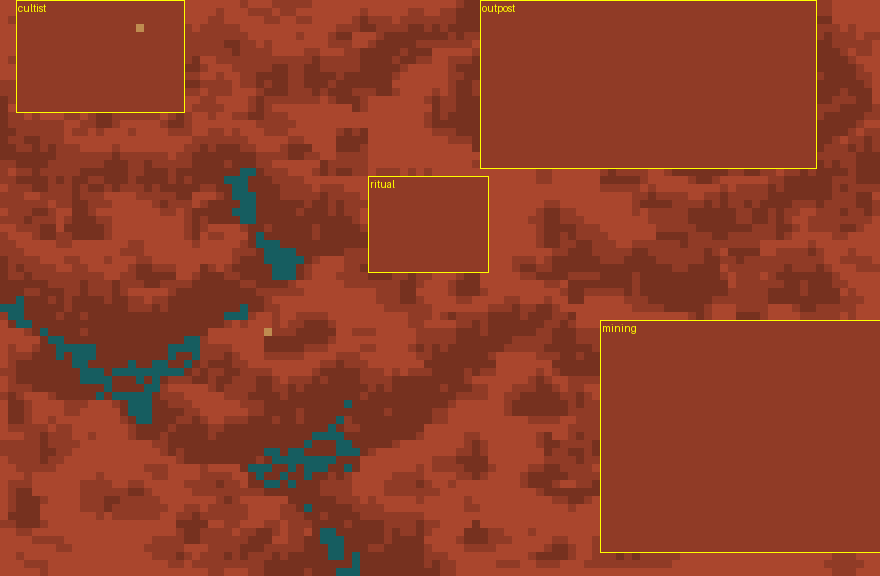
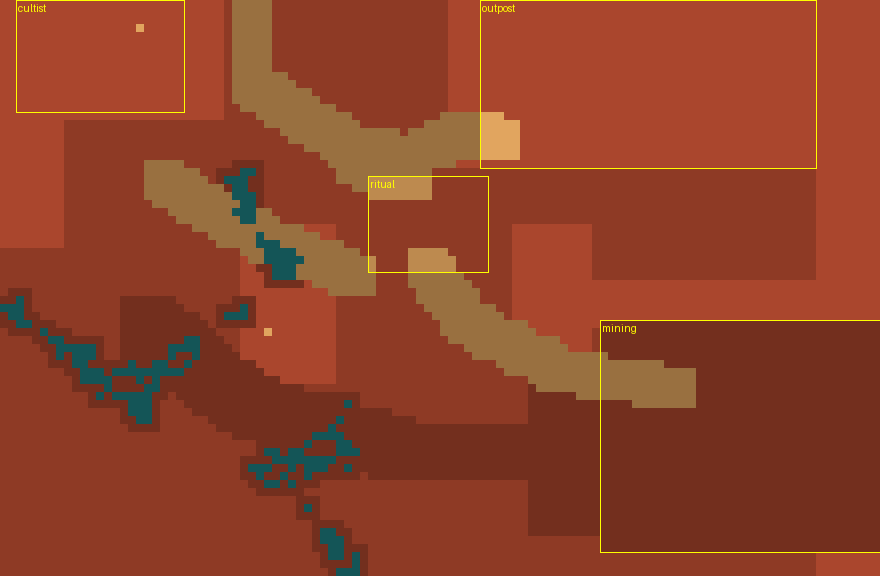
searing-canyon M0 complete: hand-authored geometric tier maze + trail network
Replaces the brightness-noise elevation baseline with a coherent geometric carve
(tools/author_searing_canyon.py):

- Canyon floor = tier 2; HIGH mesas/ridges = tier 3 (cultist, outpost, E/W rims,
  central butte, western fin, mining back-ridge) whose edges drive the baker's
  sheer walls; LOW path corridors = tier 1 carved as deliberate lanes between the
  bridges, ritual circle, and camps. Water pinned to tier 0 with tier-1 banks.
- Trail network injected programmatically onto the low-tier corridors (the mockup's
  sandy paths don't hue-separate from red rock), so roads track the floor geometry.
- Refinements: chasm mouth flared into the ritual plateau (no choke), lower basin
  pulled W off the mining box + a flat tier-1 staging apron beside it.
- 4 set-piece anchors flattened to level pads (cultist/outpost=3, ritual=2, mining=1).

Tiers: water 163 / corridor 2363 / floor 3137 / mesa 2257. Supersedes the M0
first-pass derive_searing_canyon.py (kept for provenance).

diff --git a/tools/author_searing_canyon.py b/tools/author_searing_canyon.py
@@ -1,0 +1,153 @@
+#!/usr/bin/env python3
+"""Searing Canyon M0 carve: HAND-AUTHORED geometric tier maze (replaces brightness-noise).
+
+The mockup gives the *layout* (teal water / sandy path / red ground, hue-classified) but
+its brightness is too speckly to drive elevation -- a canyon's identity is coherent
+plateaus + channels, not per-pixel noise. So elevation here is built from explicit
+geometry: a mid-tier canyon floor (2), HIGH mesas/ridges (3) whose edges become the sheer
+walls the baker renders from elevation deltas (S/E/W), and LOW corridors (1) carved as
+deliberate path channels that guide the player between the river bridges, the central
+ritual circle, and the camp zones. Water is pinned to tier 0. The four set-piece anchors
+are flattened to level pads so landmarks never sit mid-cliff.
+
+Outputs (assetsources/searing-canyon/): layout-authored.txt, elevation.txt, _m0_falsecolor.png
+"""
+import colorsys
+from PIL import Image, ImageDraw
+
+COLS, ROWS = 110, 72
+BASE = "assetsources/searing-canyon/"
+SRC = BASE + "searing-canyon-mockup.jpg"
+
+# ---------------------------------------------------------------- layout (from mockup)
+img = Image.open(SRC).convert("RGB")
+small = img.resize((COLS, ROWS), Image.BOX)
+sp = small.load()
+
+def classify(r, g, b):
+    h, s, v = colorsys.rgb_to_hsv(r / 255, g / 255, b / 255)
+    H = h * 360
+    if s > 0.22 and 150 <= H <= 210:                       # teal acid water
+        return "water"
+    if (H < 42 or H >= 345) and v >= 0.62 and s < 0.55:    # bright sun-baked path/sand
+        return "road"
+    return "ground"
+
+CHAR = {"water": "~", "ground": "F", "road": "t"}
+cls = [[classify(*sp[x, y]) for x in range(COLS)] for y in range(ROWS)]
+is_water = [[cls[y][x] == "water" for x in range(COLS)] for y in range(ROWS)]
+
+# ---------------------------------------------------------------- elevation (geometry)
+# anchor boxes (col0,row0,col1,row1) -- shared with derive; pads flattened at the end
+ANCHORS = {
+    "outpost": (60, 0, 101, 20),   # top-right fortified camp  -> mesa top (3)
+    "cultist": (2, 0, 22, 13),     # top-left tent camp        -> mesa top (3)
+    "ritual":  (46, 22, 60, 33),   # centre stone circle       -> mid plateau (2)
+    "mining":  (75, 40, 109, 68),  # bottom-right cave basin   -> low floor (1)
+}
+ANCHOR_PAD = {"outpost": 3, "cultist": 3, "ritual": 2, "mining": 1}
+
+elev = [[2 for _ in range(COLS)] for _ in range(ROWS)]     # canyon floor = mid tier 2
+
+def rect(t, x0, y0, x1, y1):
+    for y in range(max(0, y0), min(ROWS, y1 + 1)):
+        for x in range(max(0, x0), min(COLS, x1 + 1)):
+            elev[y][x] = t
+
+road_cells = set()   # cells to paint as walking trail (cracked-earth road tile)
+
+def corridor(t, pts, w, road=False):
+    """Carve a channel of half-width w to tier t along the polyline `pts`.
+
+    If road=True, the carved cells are also tagged as a walking trail so the path
+    network tracks the canyon-floor geometry by design (the mockup's sandy trails
+    don't hue-separate from red rock, so we inject roads programmatically here)."""
+    for (ax, ay), (bx, by) in zip(pts, pts[1:]):
+        steps = max(abs(bx - ax), abs(by - ay)) or 1
+        for i in range(steps + 1):
+            cx = round(ax + (bx - ax) * i / steps)
+            cy = round(ay + (by - ay) * i / steps)
+            for dy in range(-w, w + 1):
+                for dx in range(-w, w + 1):
+                    x, y = cx + dx, cy + dy
+                    if 0 <= x < COLS and 0 <= y < ROWS:
+                        elev[y][x] = t
+                        if road:
+                            road_cells.add((x, y))
+
+# --- HIGH mesas / ridges (tier 3): their edges become the canyon's sheer walls ---
+rect(3, 0, 0, 27, 14)        # cultist mesa (top-left)
+rect(3, 56, 0, 109, 20)      # outpost mesa (top-right)
+rect(3, 102, 0, 109, 71)     # east canyon rim wall
+rect(3, 0, 0, 7, 30)         # west canyon rim wall
+rect(3, 30, 28, 41, 47)      # western fin (wall east of the river)
+rect(3, 64, 28, 73, 46)      # central dividing butte (ritual | lower-right)
+rect(3, 74, 35, 101, 40)     # mining back-ridge -- the cliff the cave arch cuts into
+
+# --- LOW path corridors (tier 1): the maze the player actually walks (road=trail) ---
+corridor(1, [(31, 2), (31, 10), (40, 16), (48, 20)], 2, road=True)   # top bridge -> ritual
+corridor(1, [(45, 19), (50, 21)], 3, road=True)                      # chasm-mouth flare into ritual plateau
+corridor(1, [(53, 18), (58, 16), (62, 17)], 2, road=True)            # ritual -> outpost gate
+corridor(1, [(53, 33), (58, 40), (70, 46), (84, 48)], 2, road=True)  # ritual -> mining
+corridor(1, [(20, 22), (26, 26), (34, 30), (44, 34)], 2, road=True)  # water bridge -> ritual approach
+corridor(1, [(18, 40), (30, 50), (50, 56), (69, 56)], 3)             # lower basin sweep (pulled W off mining)
+rect(1, 66, 48, 74, 66)                                              # flat staging apron W of the mining box
+
+# --- WATER (tier 0): banks one tier down, then water itself ---
+for y in range(ROWS):
+    for x in range(COLS):
+        if is_water[y][x]:
+            for dy in (-1, 0, 1):
+                for dx in (-1, 0, 1):
+                    yy, xx = y + dy, x + dx
+                    if 0 <= xx < COLS and 0 <= yy < ROWS and not is_water[yy][xx]:
+                        elev[yy][xx] = min(elev[yy][xx], 1)     # tier-1 bank
+for y in range(ROWS):
+    for x in range(COLS):
+        if is_water[y][x]:
+            elev[y][x] = 0
+
+# --- flatten anchors to level pads (after everything else) ---
+for name, (x0, y0, x1, y1) in ANCHORS.items():
+    pad = ANCHOR_PAD[name]
+    for y in range(y0, y1 + 1):
+        for x in range(x0, x1 + 1):
+            if not is_water[y][x]:
+                elev[y][x] = pad
+
+# --- inject the trail network onto the layout (paths track the carved corridors) ---
+for (x, y) in road_cells:
+    if not is_water[y][x]:
+        cls[y][x] = "road"
+
+# ---------------------------------------------------------------- write grids
+with open(BASE + "layout-authored.txt", "w") as f:
+    f.write("\n".join("".join(CHAR[cls[y][x]] for x in range(COLS)) for y in range(ROWS)) + "\n")
+with open(BASE + "elevation.txt", "w") as f:
+    f.write("\n".join("".join(str(elev[y][x]) for x in range(COLS)) for y in range(ROWS)) + "\n")
+
+# ---------------------------------------------------------------- false-color preview
+TIN = {"water": (40, 170, 175), "ground": (170, 70, 45), "road": (225, 165, 95)}
+SHADE = {0: 0.5, 1: 0.68, 2: 0.84, 3: 1.0}
+scale = 8
+out = Image.new("RGB", (COLS * scale, ROWS * scale))
+op = out.load()
+for y in range(ROWS):
+    for x in range(COLS):
+        col = tuple(int(c * SHADE[elev[y][x]]) for c in TIN[cls[y][x]])
+        for dy in range(scale):
+            for dx in range(scale):
+                op[x * scale + dx, y * scale + dy] = col
+d = ImageDraw.Draw(out)
+for name, (x0, y0, x1, y1) in ANCHORS.items():
+    d.rectangle([x0 * scale, y0 * scale, (x1 + 1) * scale, (y1 + 1) * scale], outline=(255, 255, 0))
+    d.text((x0 * scale + 2, y0 * scale + 2), name, fill=(255, 255, 0))
+out.save(BASE + "_m0_falsecolor.png")
+
+# ---------------------------------------------------------------- report
+from collections import Counter
+ec = Counter(elev[y][x] for y in range(ROWS) for x in range(COLS))
+tc = Counter(cls[y][x] for y in range(ROWS) for x in range(COLS))
+print("layout terrain:", dict(tc))
+print("elevation tiers:", dict(sorted(ec.items())))
+print("wrote layout-authored.txt, elevation.txt, _m0_falsecolor.png")
